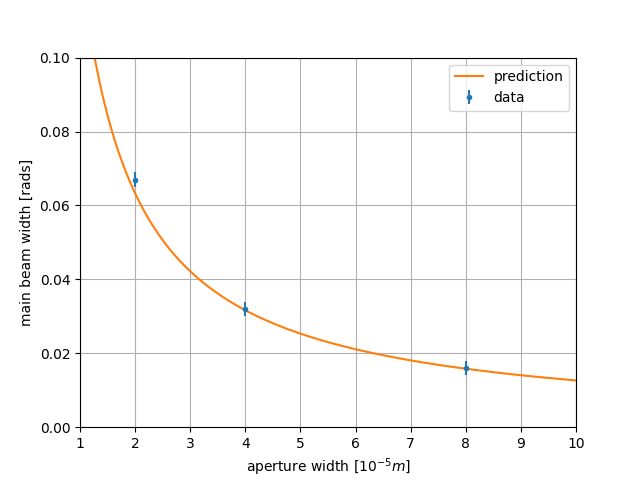
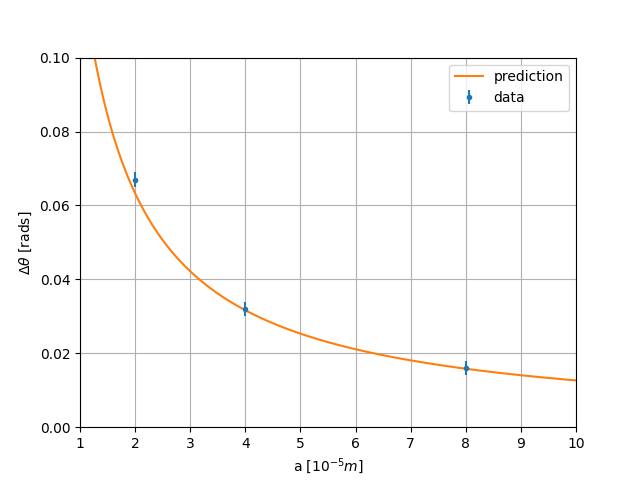
finished mid report

Changed region(s): [[0.375, 0.9375, 0.625, 1.0], [0.0312, 0.3438, 0.0625, 0.6875], [0.625, 0.9688, 0.6562, 1.0]]

diff --git a/interference/basic/calibrate.py b/interference/basic/calibrate.py
@@ -25,15 +25,15 @@ def extract_angle(file_name):
 
 
 def plot_calibration():
-    #week 1 calibration
-    # file_path1 = 'angles/angles_0_2_5_7_10_12_15.csv'
-    # file_path2 = 'angles/angles_-1_-2_-3_-4_-5_-8_-10.csv'
-    # data = load_data(file_path1, [1+2*i for i in range(7)]) + load_data(file_path2, [1+2*i for i in range(7)])
-    # angle = np.array([0, 2, 5, 7, 10, 12, 15, -1, -2, -3, -4, -5, -8, -10])
+    # week 1 calibration
+    file_path1 = 'angles/angles_0_2_5_7_10_12_15.csv'
+    file_path2 = 'angles/angles_-1_-2_-3_-4_-5_-8_-10.csv'
+    data = load_data(file_path1, [1+2*i for i in range(7)]) + load_data(file_path2, [1+2*i for i in range(7)])
+    angle = np.array([0, 2, 5, 7, 10, 12, 15, -1, -2, -3, -4, -5, -8, -10])
 
-    file_path = 'angles/angles_12_10_8_6_4_2_0.csv'
-    data = load_data(file_path, range(7))
-    angle = np.array([12, 10, 8, 6, 4, 2, 0])
+    # file_path = 'angles/angles_12_10_8_6_4_2_0.csv'
+    # data = load_data(file_path, range(7))
+    # angle = np.array([12, 10, 8, 6, 4, 2, 0])
 
     angle_err = np.array([0.25 for a in angle])
     angle = angle*np.pi/180
@@ -61,7 +61,7 @@ def plot_calibration():
     print('parameters: ', *popt)
 
     plt.xlabel('voltage [V]')
-    plt.ylabel('angle [rads]')
+    plt.ylabel(r'$\theta$ [rads]')
     plt.legend()
     plt.grid()
     plt.show()

diff --git a/interference/basic/beam_width.py b/interference/basic/beam_width.py
@@ -49,8 +49,8 @@ def plot_width():
 
     plt.xlim(*xlim)
     plt.ylim(*ylim)
-    plt.ylabel('main beam width [rads]')
-    plt.xlabel(r'aperture width $[10^{-5} m]$')
+    plt.ylabel(r'$\Delta\theta$ [rads]')
+    plt.xlabel(r'a $[10^{-5} m]$')
     plt.grid()
     plt.legend()
     plt.show()
